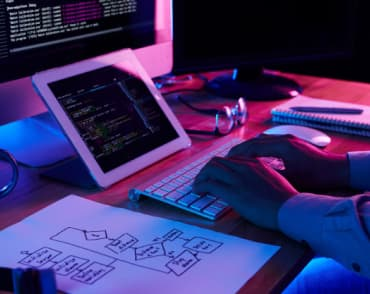
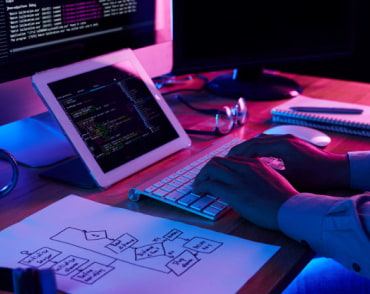
added img corrections

diff --git a/index.html b/index.html
@@ -71,7 +71,7 @@
         <h2>Czym się zajmujemy</h2>
         <ul>
           <li>
-            <img src=images/img_2.jpg alt="Ręce na klawiaturze przed ekranem" width="370 px" height="294 px"
+            <img src="images/img.jpg" alt="Ręce na klawiaturze przed ekranem" width="370 px" height="294 px"
         </li>
           <li></li>
           <li></li>
